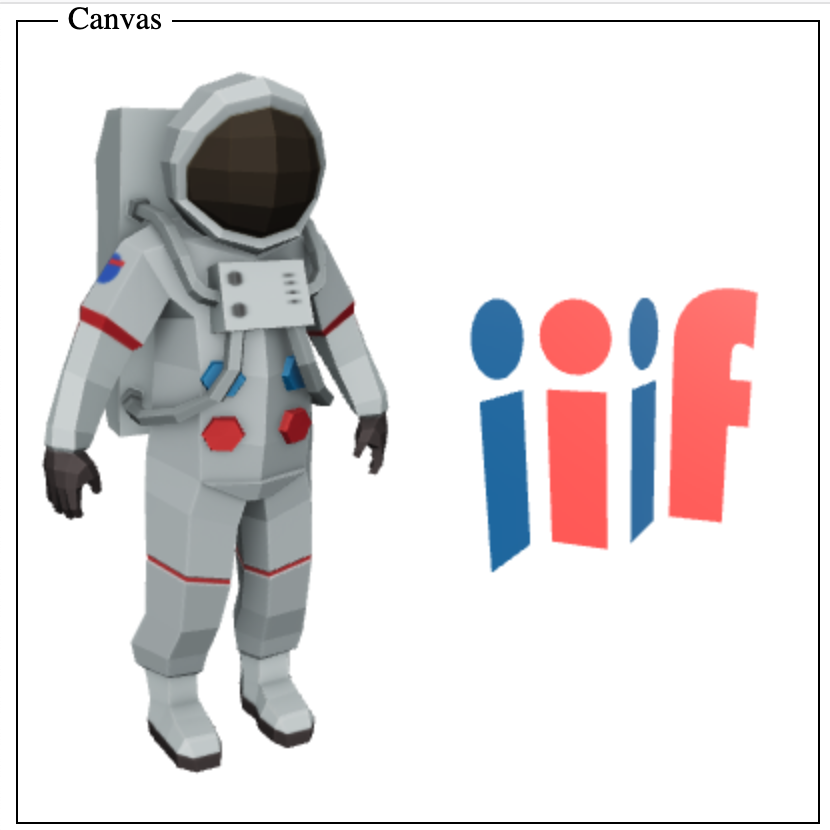
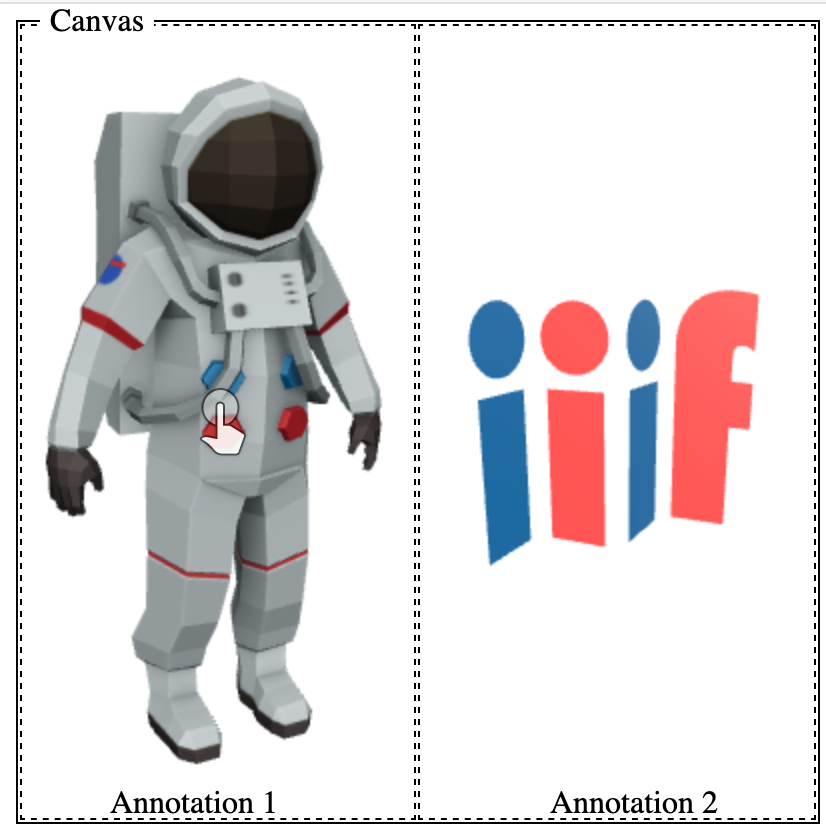
Adding 2d_first experiments

diff --git a/3d_prototypes/2d_first/iiif_behind.html b/3d_prototypes/2d_first/iiif_behind.html
@@ -36,16 +36,17 @@
                 top: 10px;
                 width: 196px;
                 height: 396px;
-                left: 10px;
+                left: 100px;
             }
 
             #iiif_logo {
                 border: 1px black dashed;
                 position: absolute;
                 top: 10px;
-                left: 209px;
+                left: 100px;
                 width: 197px;
-                height: 396px;
+                height: 200px;
+                z-index: -1;
             }
 
         </style>
@@ -55,8 +56,6 @@
 
         <div id="canvas">
             <span id="label" class="label">Canvas</span>
-            <span id="anno1" class="label">Annotation 1</span>
-            <span id="anno2" class="label">Annotation 2</span>
             <model-viewer id="Astronaut" src="https://modelviewer.dev/shared-assets/models/Astronaut.glb" alt="A 3D model of an astronaut" auto-rotate camera-controls></model-viewer>
             <model-viewer id="iiif_logo" src="../models/iiif.gtlf" alt="IIIF 3d Logo" auto-rotate camera-controls></model-viewer>
         </div>    

diff --git a/3d_prototypes/2d_first/README.md b/3d_prototypes/2d_first/README.md
@@ -1,5 +1,5 @@
 # 2D First Approach
-[index](../)
+[3D Prototyping](../)
 
 This was first suggested on the call on the 9th of March 2021. The approach here is to leave the canvas with three dimensions and treat the 3d object as a discreet object which can be painted on to the canvas. The canvas would look as follows:
 
@@ -32,7 +32,11 @@ This was first suggested on the call on the 9th of March 2021. The approach here
 }
 ```
 
-In this example the 3d model is painted onto the canvas and fills the full width and height of the canvas. The canvas dimensions are arbitrary in this example but are required by IIIF.  This type of manifest could be shown in a viewer like the following demo: 
+In this example the 3d model is painted onto the canvas and fills the full width and height of the canvas. The canvas dimensions are arbitrary in this example but are required by IIIF and useful in the further examples below.  
+
+## I want to show a 3d model in a IIIF viewer
+
+This type of manifest could be shown in a viewer like the following demo: 
 
 <a href="Astronaut.html">
     <img src="Astronaut_on_canvas.png" alt="Demo showing the Astronaut 3d model on a 2d canvas" style="width: 400px; display: block; margin-left: auto; margin-right: auto;"/>
@@ -42,9 +46,38 @@ and would solve the first use case of allowing a IIIF viewer to show a 3d model.
 
 ## Models from different repositories in a single space
 
-It could in a way handle brining together two models from different locations. This could be achieved in a similar way to how IIIF can draw images from different repositories. In the following example the canvas has two annotations one for each model. The first model is the Astronaut one shown earlier and the second model is stored locally but is downloaded from [SketchFab](https://skfb.ly/6SWEH). The difficulty is where to target the two models on the canvas. This example draws the two models side by side on the canvas. See the [example manifest](side_by_side.json) and the demo below:
+It could in a way handle brining together two models from different locations. This could be achieved in a similar way to how IIIF can draw images from different repositories. In the following example the canvas has two annotations one for each model. The first model (annotation 1) is the Astronaut model shown earlier and the second model (annotation 2) is stored locally but is downloaded from [SketchFab](https://skfb.ly/6SWEH). The difficulty is where to target or place the two models on the canvas. The example below draws the two models side by side on the canvas. See the [example manifest](side_by_side.json) and the demo below:
 
 <a href="side_by_side.html">
     <img src="side_by_side.png" alt="Demo showing the 2 3d models on a single 2d canvas" style="width: 400px; display: block; margin-left: auto; margin-right: auto;"/>
 </a>
+
+Drawing two 3d models on to a 2d canvas has a number of issues. Because the 3d models are separate containers its not possible to put the IIIF model in the Astronaut model which means you couldn't handle the reconstructing Vase use case or the room reconstruction use case. Both of the models are also controlled independently and so you can't spin round to see the back of the composition. A demonstration of how this would look is below. In this example the IIIF model has been placed behind the Astronaut and to give the illusion of depth it has been made smaller. As they are both separate models the are controlled separately so spin independently.
+
+<a href="iiif_behind.html">
+    <img src="iiif_behind.png" alt="Demo showing the 2 3d models on a single 2d canvas with the IIIF logo in the background" style="width: 400px; display: block; margin-left: auto; margin-right: auto;"/>
+</a>
+
+There is also the issue on what to do with the 3rd IIIF dimension time. It would be possible to move the two models around the canvas over time but it suffers the same issue in that the behaviour when they overlap is less than desirable. IIIF doesn't have a concept of a z-index but if things are overlapping it is the order of the annotations which is taken as the depth order.
+
+
+## Place two different models into a single space
+
+Partly possible in that you can place two different models in the same 2d space. Doesn't cover the intent of the [use case](https://github.com/IIIF/iiif-3d-stories/issues/6).
+
+## Save and share camera positions
+
+Presumably the camera position is set in the GlTF files. If you change the camera position or more specifically in these viewers rotate or zoom in on the model the [Content State](https://iiif.io/api/content-state/0.3/) standard could be extended to record the rotation and zoom of the model. 
+
+## Defining Initial View Position
+
+Presumably this is also set in the GlTF file. 
+
+## Support Annotation
+
+It could be possible to do 2d annotations and record the rotation and zoom of the model. The annotations would break if the GlTF file was changed for example if the camera was moved. By losing the abstraction of the conversion between units in a canvas and the GlTF file you loose some of the safety in targeting annotations on a canvas. If the GlTF file contained annotations presumably these would be in z,y,z coordinates. 
+
+## Consistent Unit Scale
+
+The only way this is controlled is by the annotation target. If the second model was smaller than the first model then the second model can be painted on to a smaller area of the canvas. Unless GlTF supports the conversion of pixels to meters then it won't be possible to do measurements. 
 
